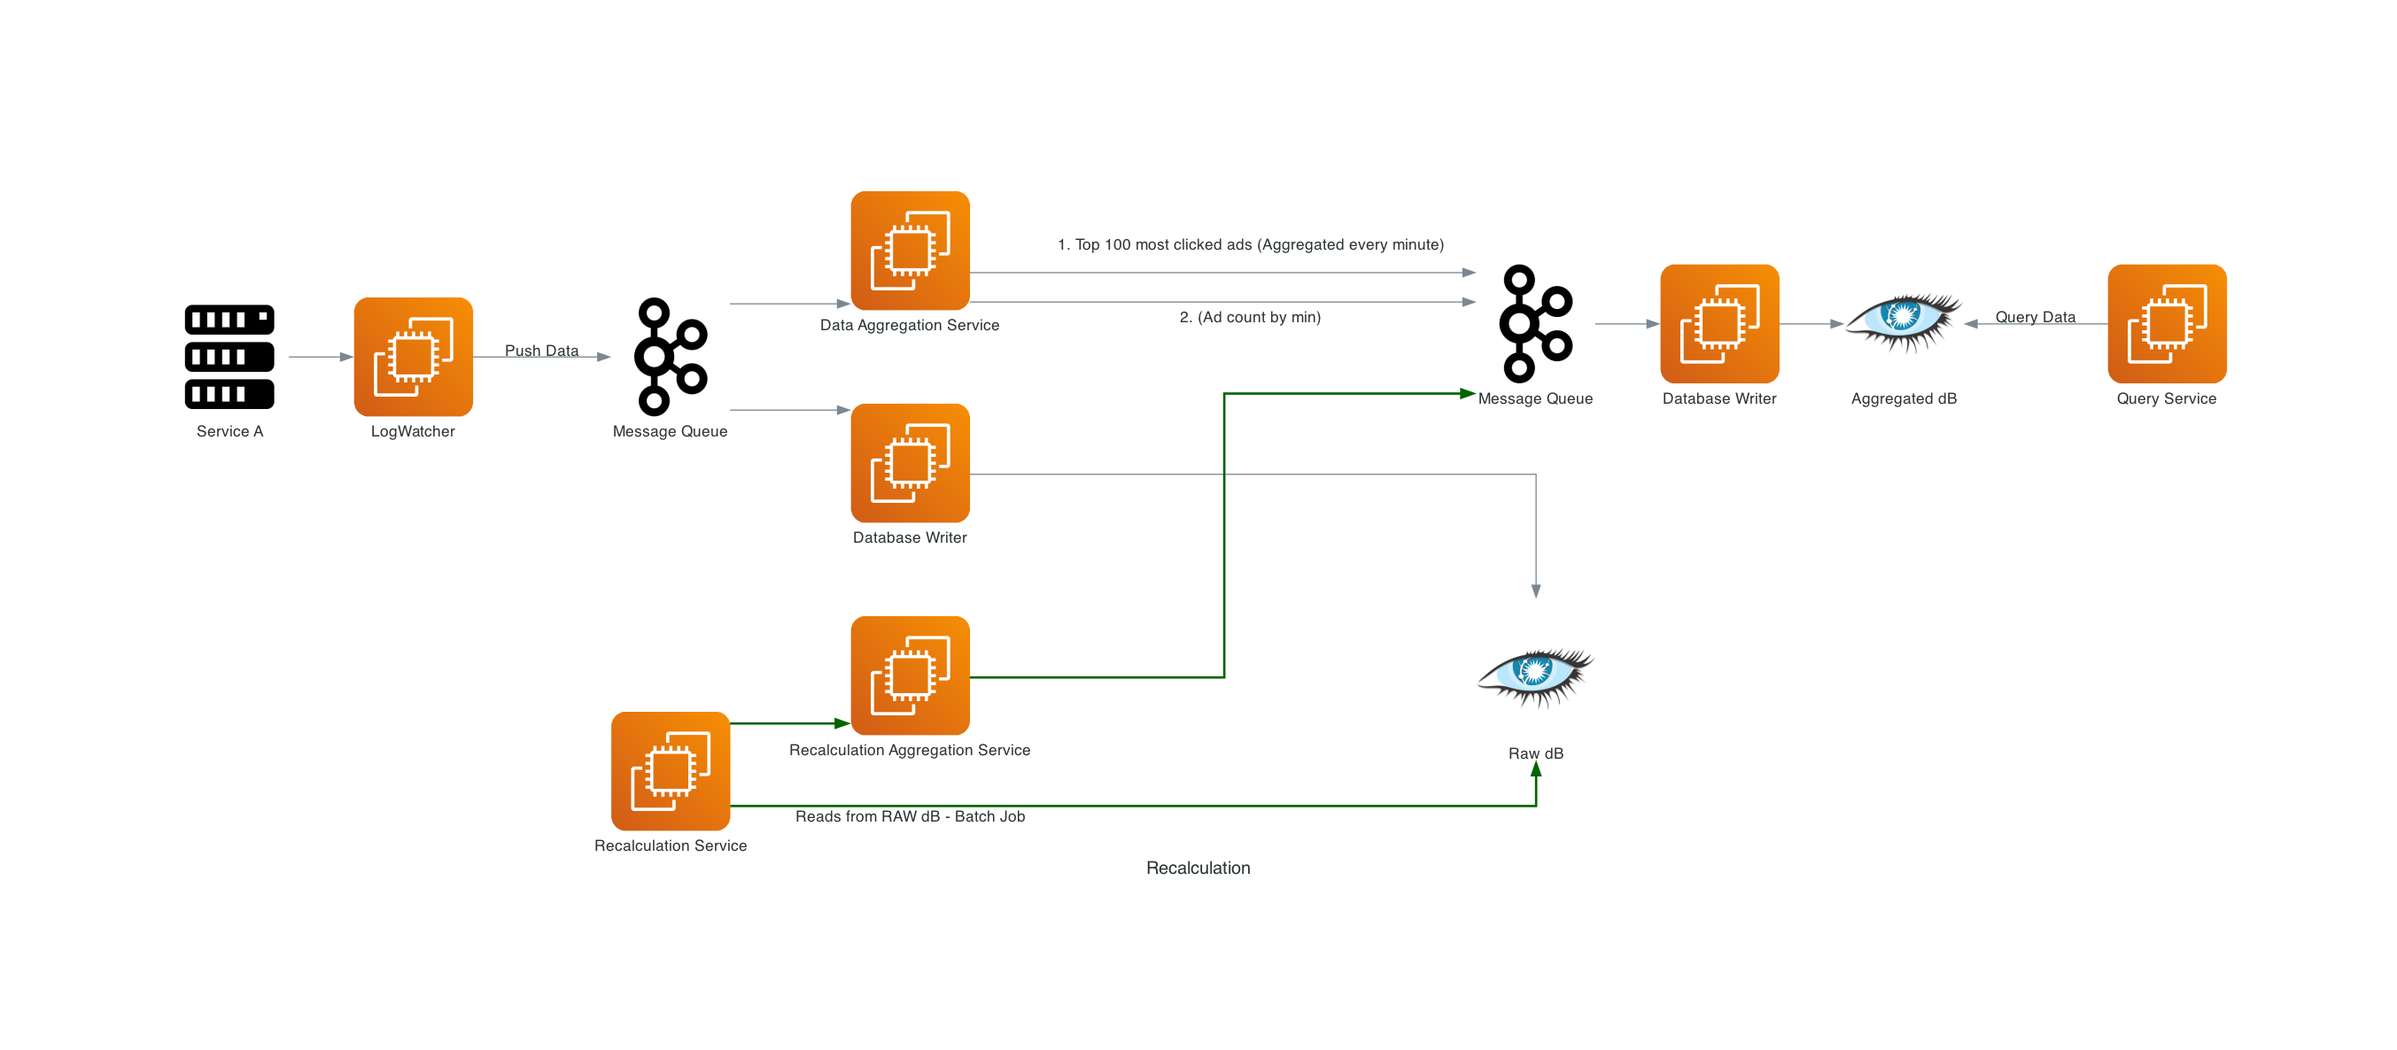
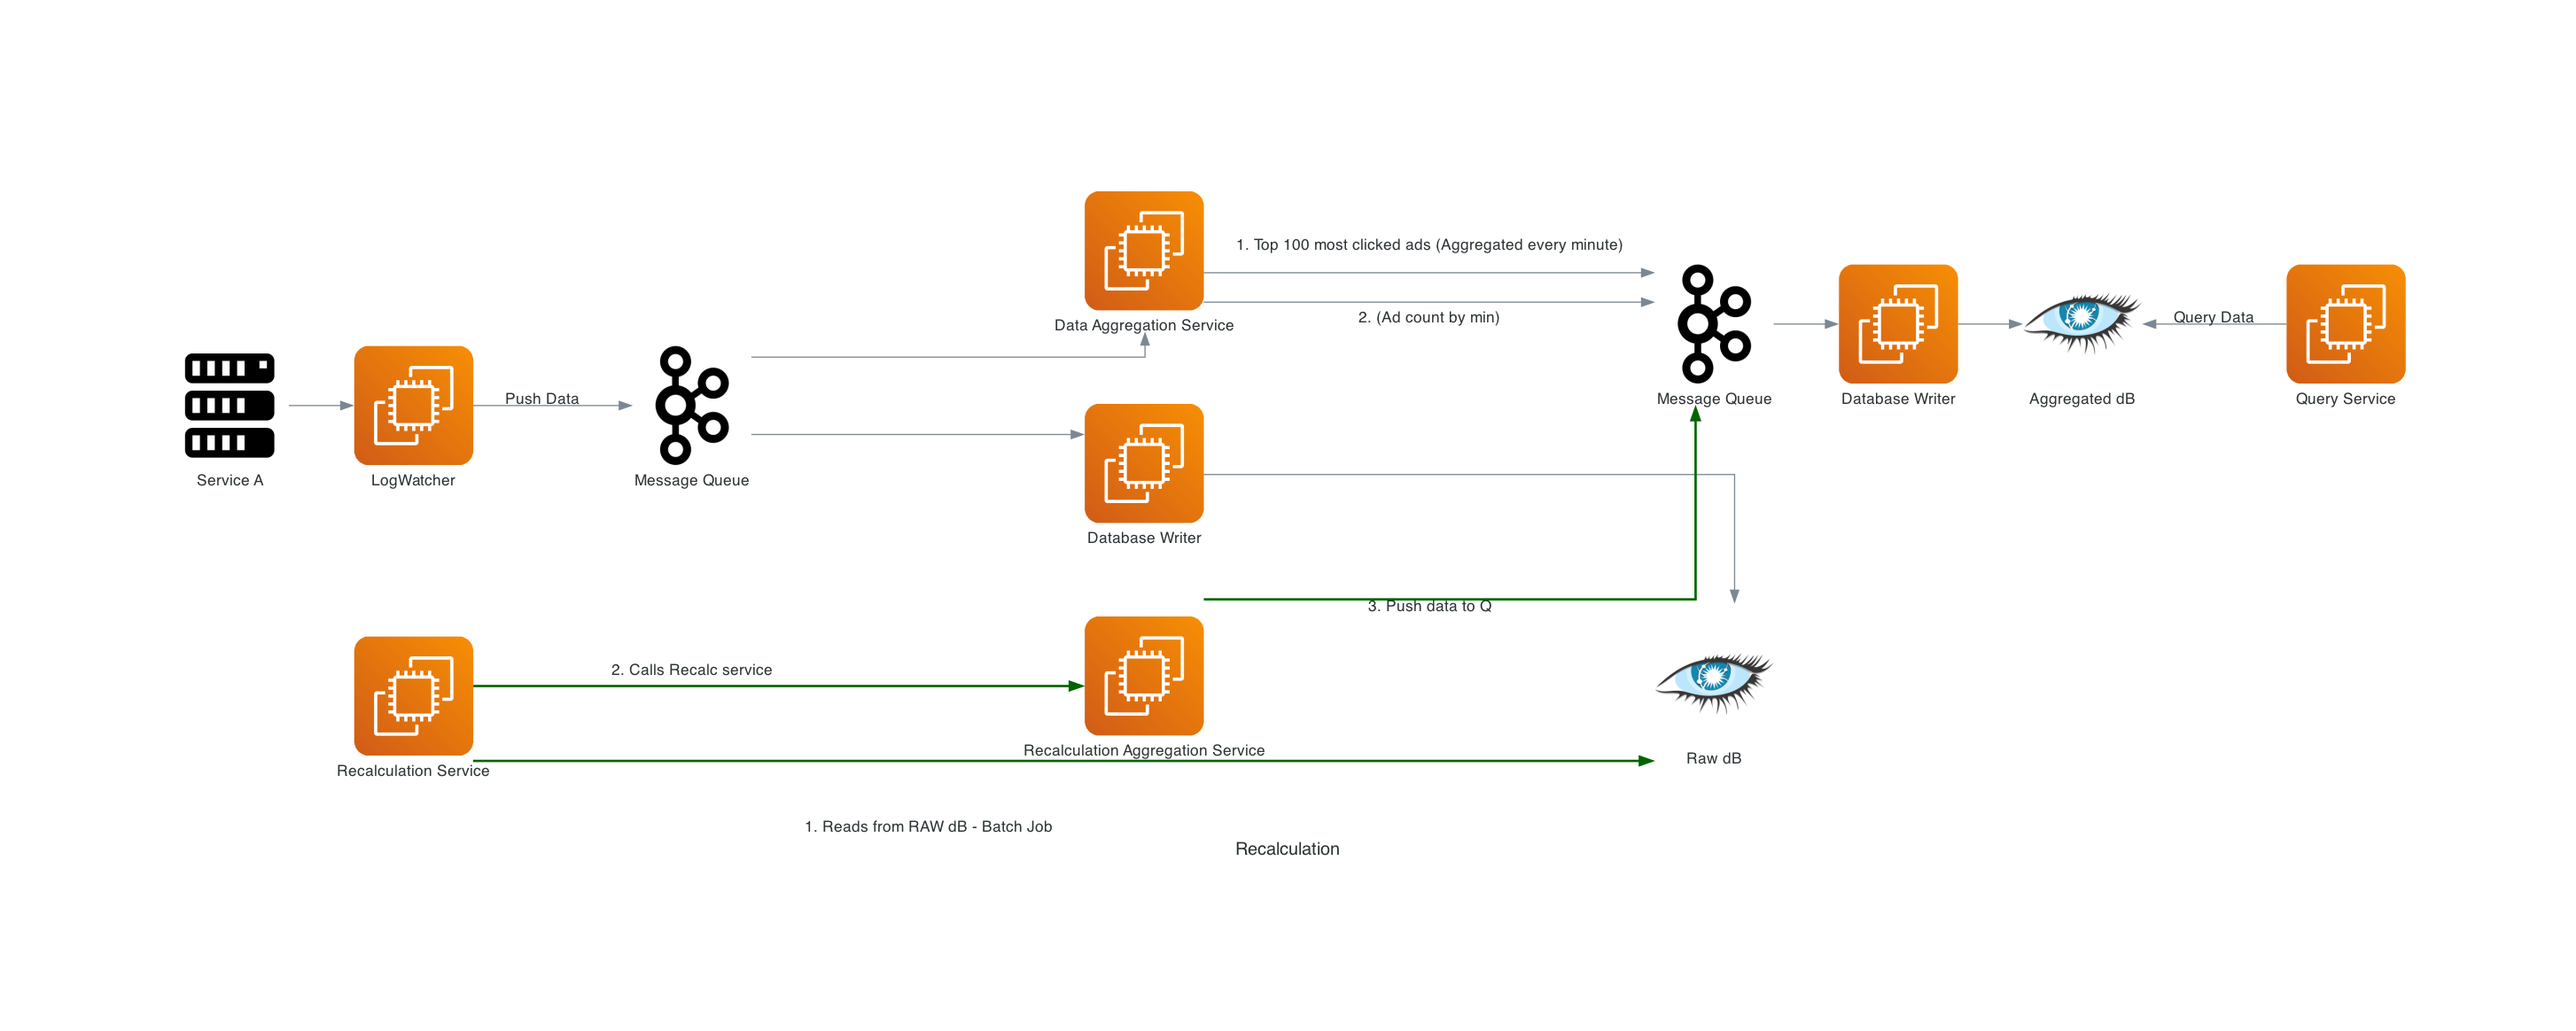
Your commit message here

diff --git a/designAdClickAggregationSystem/c_recalculationService.py b/designAdClickAggregationSystem/c_recalculationService.py
@@ -36,6 +36,6 @@ with Diagram("Recalculation", show=True):
     kafka_2 >> database_writer_2 >> aggregated_dB
     aggregated_dB - Edge(label="Query Data") << query_service
 
-    recalc_svc - Edge(label="Reads from RAW dB - Batch Job", color="darkGreen", style="bold") >> raw_database
-    recalc_svc - Edge(color="darkGreen", style="bold")>> recalc_agg_svc
-    recalc_agg_svc- Edge(color="darkGreen", style="bold")  >> kafka_2
+    recalc_svc - Edge(label="1. Reads from RAW dB - Batch Job", color="darkGreen", style="bold") >> raw_database
+    recalc_svc - Edge(label="2. Calls Recalc service", color="darkGreen", style="bold", minlen="2")>> recalc_agg_svc
+    recalc_agg_svc- Edge(label="3. Push data to Q", color="darkGreen", style="bold")  >> kafka_2

diff --git a/README.md b/README.md
@@ -1,1 +1,4 @@
 # system-design
+
+git commit -am "Your commit message here" && git push
+
